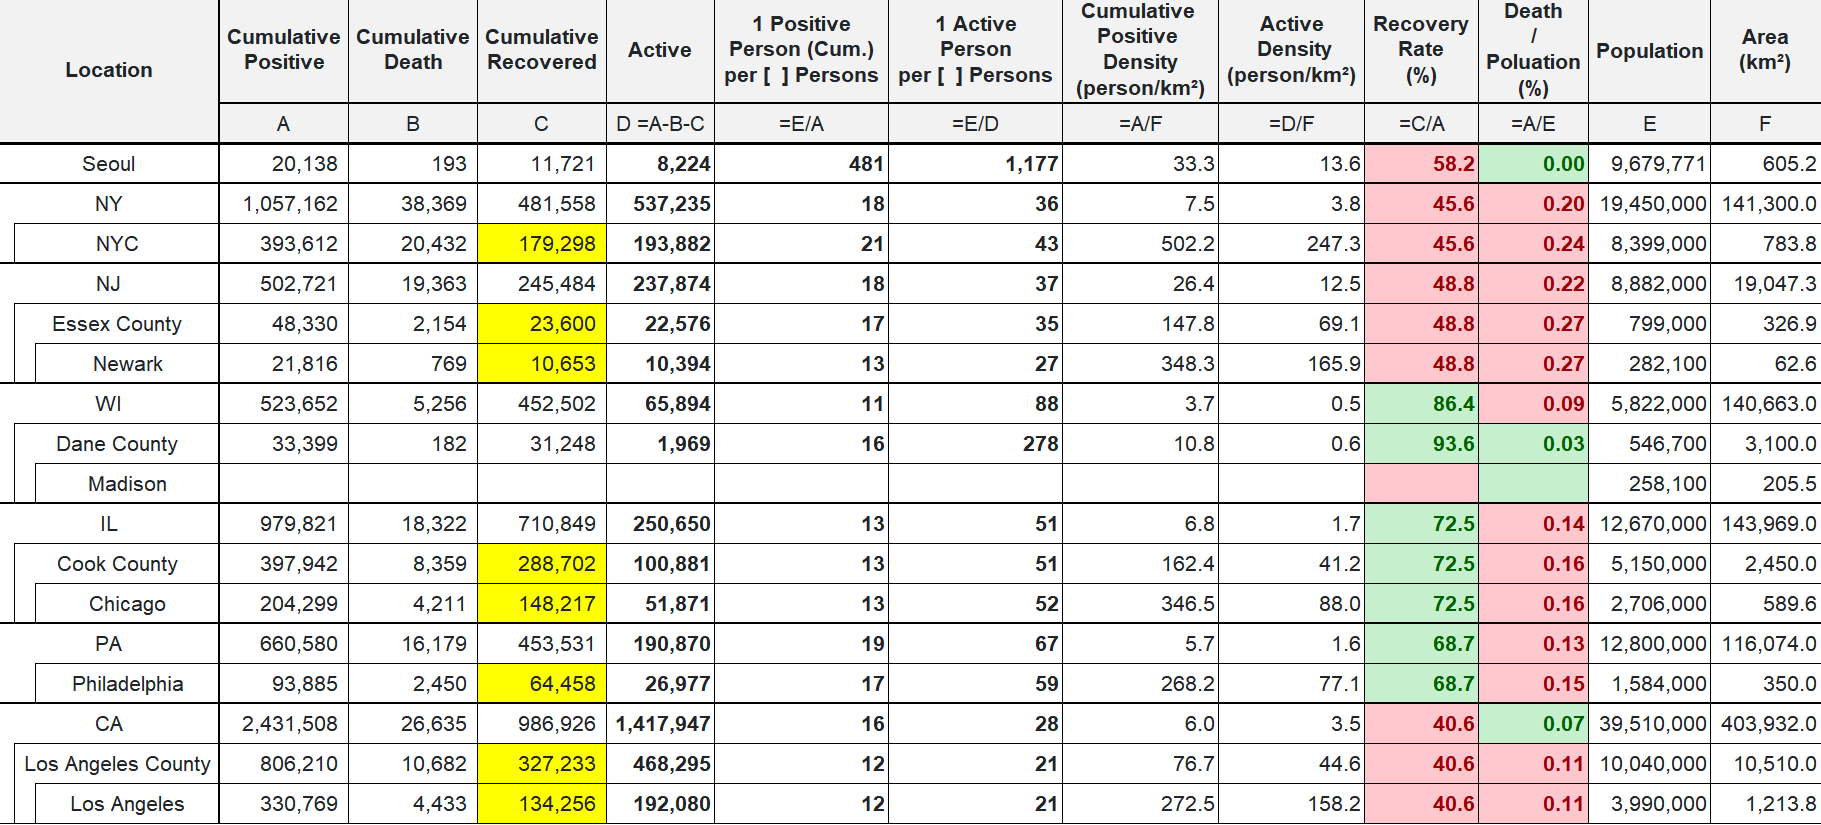
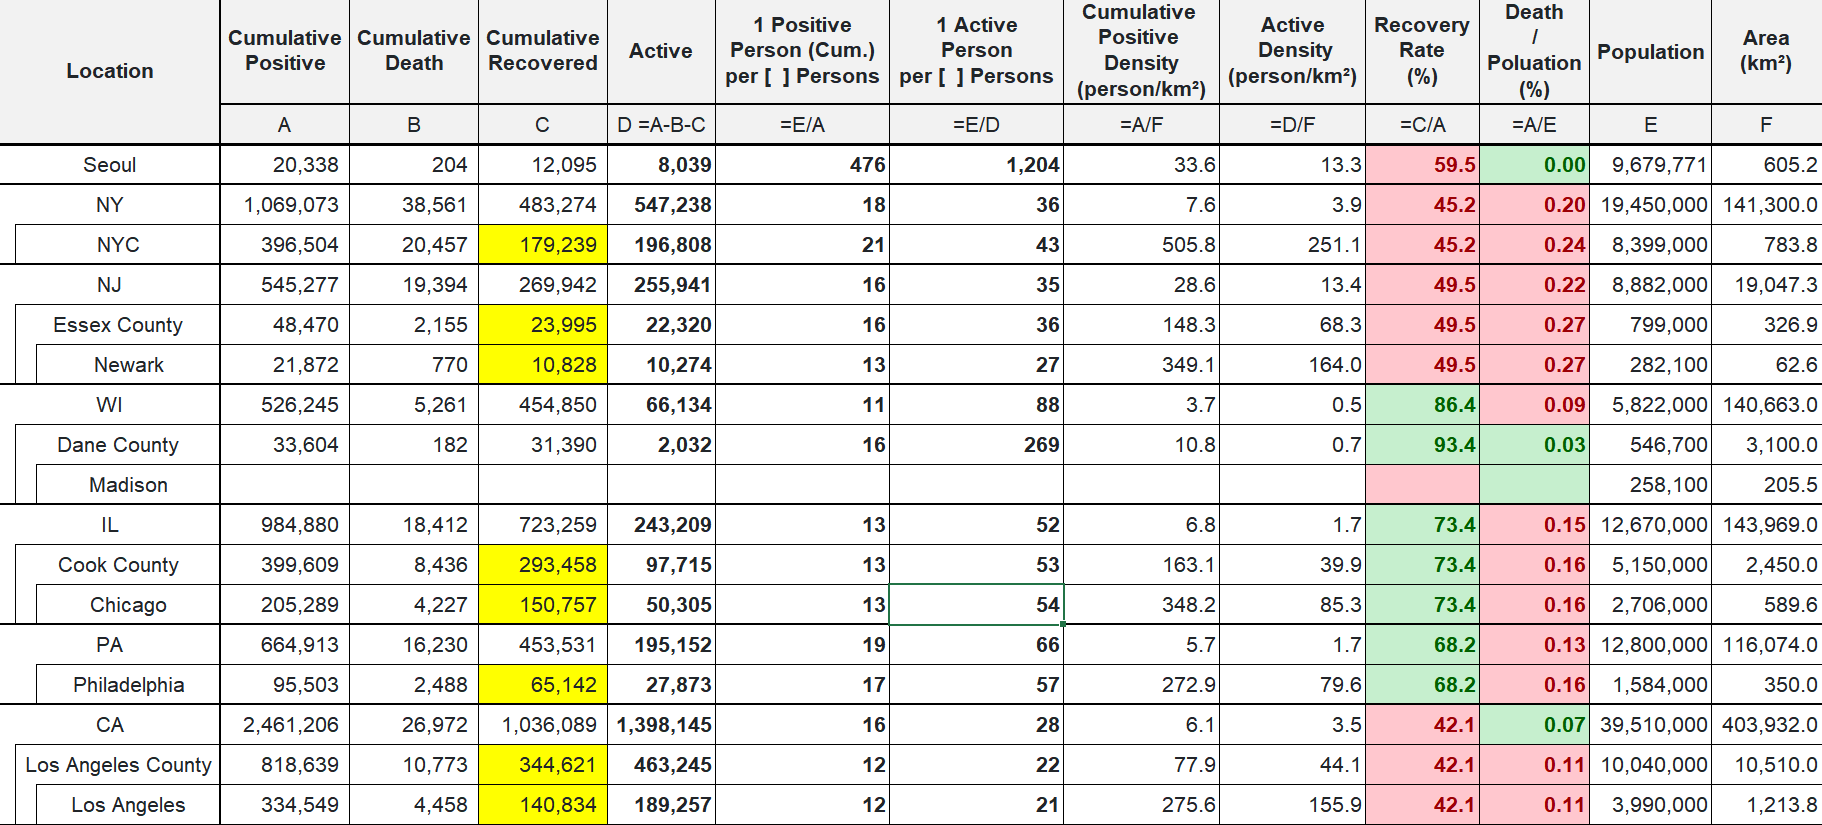
update 1/4 status

diff --git a/index.html b/index.html
@@ -19,7 +19,7 @@
 
 <body class="container-fluid">
 	<h1> CoronaV for Friends</h1>
-	<h2> Data updated at Jan 03 2021 EST 22:10</h2>
+	<h2> Data updated at Jan 04 2021 EST 21:00</h2>
 	<hr>
 	<main>
 		<div class="row">
